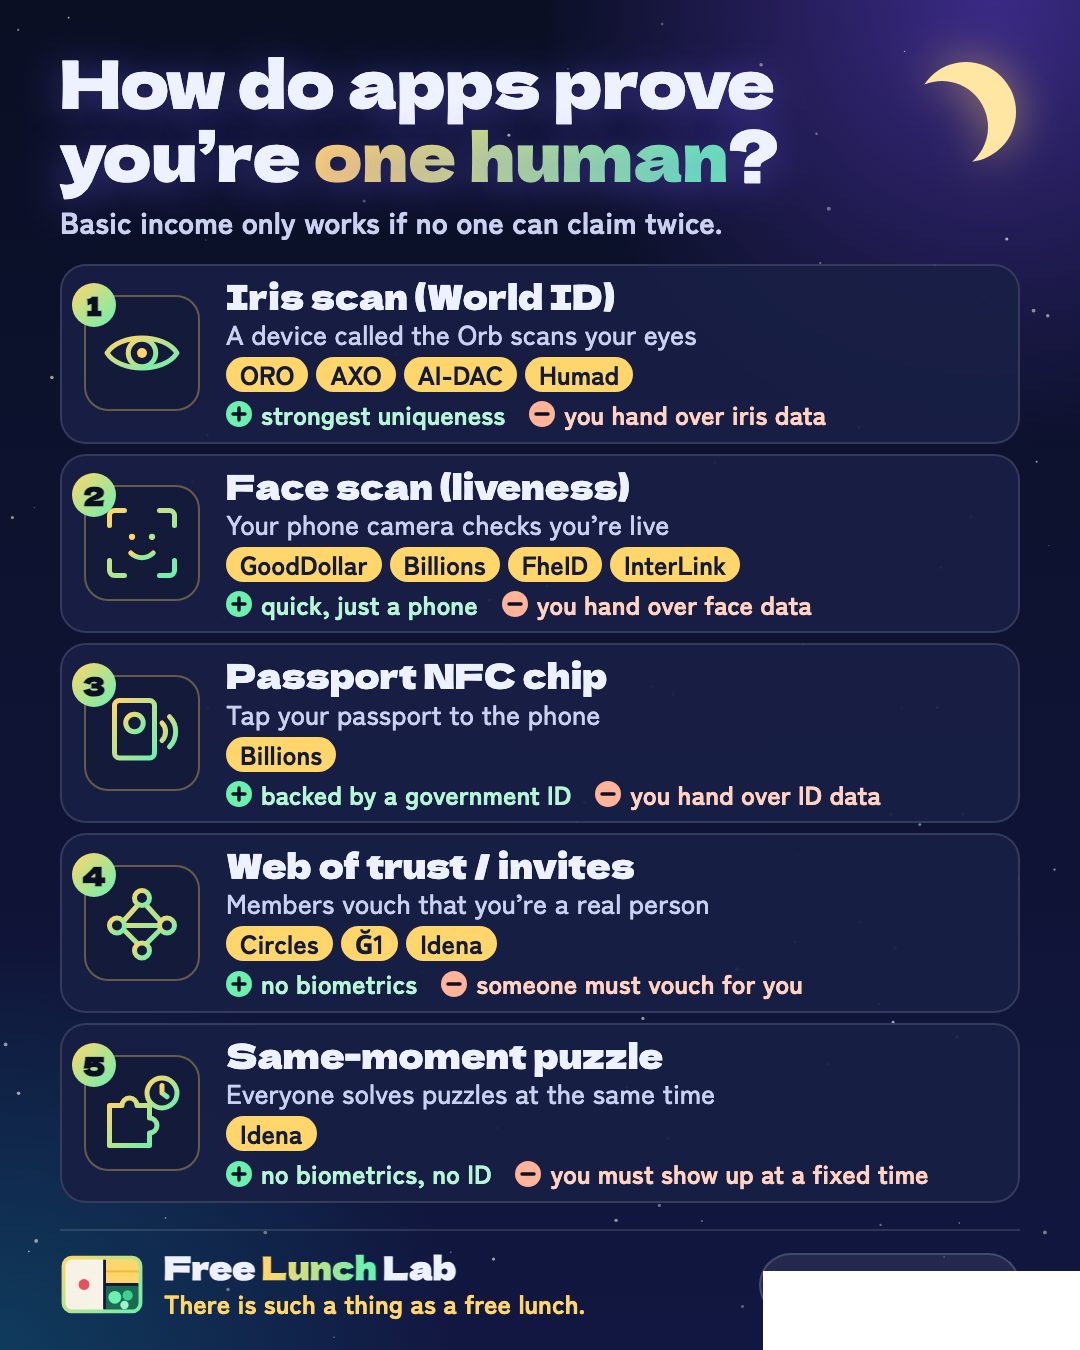
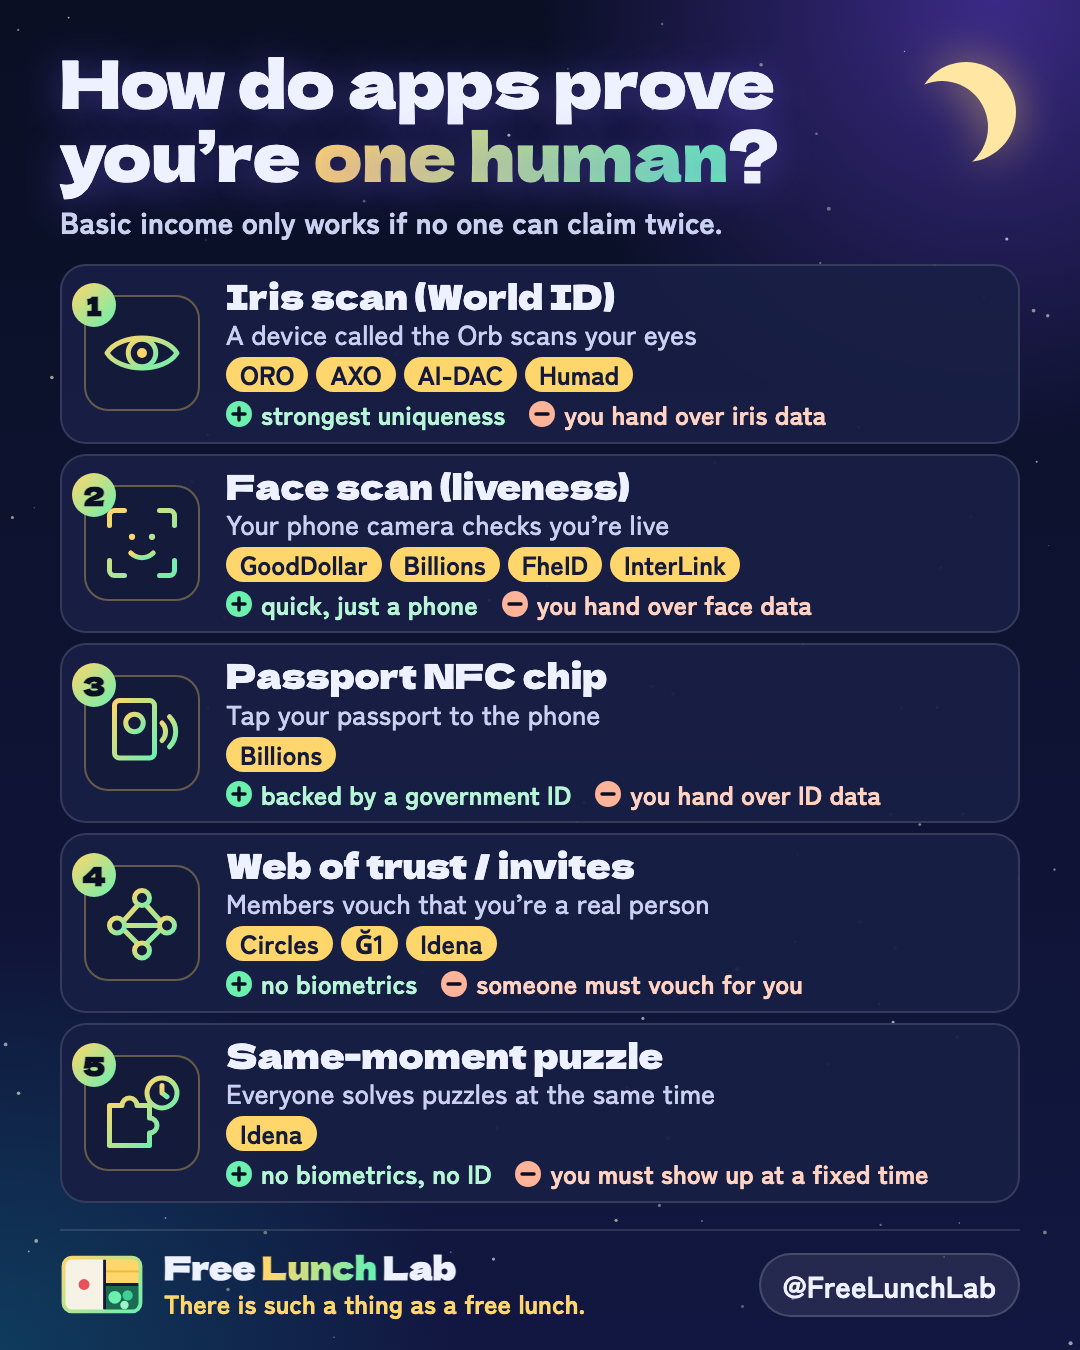
brand/x infographics: capture via DevTools protocol to fix white unpainted tile in verify-5-en
The one-shot chrome --screenshot could capture before the last raster tile
was painted, leaving a white block over the footer pill. Now: fixed
viewport, wait for load + document.fonts.ready + two frames, fail on
overflow or unloaded fonts, capture with an explicit clip. curl also
retries refused connections.

Changed region(s): [[0.7028, 0.9333, 1.0, 1.0]]

diff --git a/brand/x/infographics/render.js b/brand/x/infographics/render.js
@@ -14,7 +14,7 @@ const DIR = __dirname;
 const W = 1080, H = 1350;
 const CHROME = process.env.CHROME || '/Applications/Google Chrome Canary.app/Contents/MacOS/Google Chrome Canary';
 const UA = 'Mozilla/5.0 (Macintosh; Intel Mac OS X 10_15_7) AppleWebKit/537.36 (KHTML, like Gecko) Chrome/124.0 Safari/537.36';
-const curl = (url, enc) => execFileSync('curl', ['-sfL', '--retry', '3', '-A', UA, url], { encoding: enc, maxBuffer: 64 << 20 });
+const curl = (url, enc) => execFileSync('curl', ['-sfL', '--retry', '5', '--retry-delay', '1', '--retry-connrefused', '--retry-all-errors', '-A', UA, url], { encoding: enc, maxBuffer: 64 << 20 });
 const esc = s => String(s).replace(/[&<>"]/g, c => ({ '&': '&amp;', '<': '&lt;', '>': '&gt;', '"': '&quot;' }[c]));
 
 // Same approach as og.js: subset Google Fonts to the exact characters and inline them as data: URIs,
@@ -187,20 +187,72 @@ h1{font-size:${ja ? 62 : 66}px}
   },
 };
 
-function shot(name, html) {
+// Screenshots go through the DevTools protocol, not `chrome --screenshot`: the one-shot CLI capture can fire before
+// every raster tile is painted (it once left a white block over the footer). Here we fix the viewport, wait for
+// load + document.fonts.ready + two animation frames, check that nothing overflows, then capture with an explicit clip.
+const { spawn } = require('child_process');
+async function launch() {
+  const profile = fs.mkdtempSync(path.join(os.tmpdir(), 'ig-chrome-'));
+  const proc = spawn(CHROME, ['--headless=new', '--disable-gpu', '--hide-scrollbars', '--force-device-scale-factor=1',
+    '--remote-debugging-port=0', `--user-data-dir=${profile}`, `--window-size=${W},${H}`, 'about:blank'], { stdio: ['ignore', 'ignore', 'pipe'] });
+  const wsUrl = await new Promise((ok, ng) => {
+    let buf = '';
+    const t = setTimeout(() => ng(new Error('Chrome did not start')), 20000);
+    proc.stderr.on('data', d => { buf += d; const m = buf.match(/DevTools listening on (ws:\/\/\S+)/); if (m) { clearTimeout(t); ok(m[1]); } });
+  });
+  const port = new URL(wsUrl).port;
+  const page = (await (await fetch(`http://127.0.0.1:${port}/json/list`)).json()).find(t => t.type === 'page');
+  const ws = new WebSocket(page.webSocketDebuggerUrl);
+  await new Promise((ok, ng) => { ws.onopen = ok; ws.onerror = ng; });
+  let id = 0; const pending = new Map(), waiters = [];
+  ws.onmessage = ev => {
+    const m = JSON.parse(ev.data);
+    if (m.id && pending.has(m.id)) { const [ok, ng] = pending.get(m.id); pending.delete(m.id); m.error ? ng(new Error(m.error.message)) : ok(m.result); }
+    else if (m.method) for (const w of waiters.splice(0)) w.method === m.method ? w.ok(m.params) : waiters.push(w);
+  };
+  const send = (method, params = {}) => new Promise((ok, ng) => { pending.set(++id, [ok, ng]); ws.send(JSON.stringify({ id, method, params })); });
+  const once = method => new Promise(ok => waiters.push({ method, ok }));
+  const close = async () => {
+    ws.close();
+    await new Promise(ok => { proc.once('exit', ok); proc.kill(); });
+    fs.rmSync(profile, { recursive: true, force: true, maxRetries: 5, retryDelay: 200 });
+  };
+  return { send, once, close };
+}
+
+async function shot(cdp, name, html) {
   const tmp = fs.mkdtempSync(path.join(os.tmpdir(), 'ig-'));
   const f = path.join(tmp, `${name}.html`);
   fs.writeFileSync(f, html);
   if (process.env.KEEP_HTML) fs.writeFileSync(path.join(DIR, `${name}.html`), html);
   const out = path.join(DIR, `${name}.png`);
-  execFileSync(CHROME, ['--headless=new', '--disable-gpu', '--hide-scrollbars', '--virtual-time-budget=10000', '--force-device-scale-factor=1',
-    `--window-size=${W},${H}`, `--screenshot=${out}`, `file://${f}`], { stdio: 'ignore' });
+  await cdp.send('Emulation.setDeviceMetricsOverride', { width: W, height: H, deviceScaleFactor: 1, mobile: false });
+  const loaded = cdp.once('Page.loadEventFired');
+  await cdp.send('Page.navigate', { url: `file://${f}` });
+  await loaded;
+  const { result } = await cdp.send('Runtime.evaluate', {
+    awaitPromise: true, returnByValue: true,
+    expression: `document.fonts.ready.then(() => new Promise(r => requestAnimationFrame(() => requestAnimationFrame(() => {
+      const over = [...document.querySelectorAll('.page *')].filter(e => { const b = e.getBoundingClientRect(); return b.width && (b.right > ${W} + .5 || b.bottom > ${H} + .5); }).map(e => e.className || e.tagName);
+      r({ fonts: [...document.fonts].filter(x => x.status !== 'loaded' && x.status !== 'unloaded').length, over, w: innerWidth, h: innerHeight });
+    }))))`,
+  });
+  const v = result.value;
+  if (v.w !== W || v.h !== H) throw new Error(`${name}: viewport ${v.w}x${v.h}, expected ${W}x${H}`);
+  if (v.fonts) throw new Error(`${name}: ${v.fonts} font(s) failed to load`);
+  if (v.over.length) throw new Error(`${name}: overflows the ${W}x${H} frame: ${[...new Set(v.over)].join(', ')}`);
+  const { data } = await cdp.send('Page.captureScreenshot', { format: 'png', fromSurface: true, captureBeyondViewport: false, clip: { x: 0, y: 0, width: W, height: H, scale: 1 } });
+  fs.writeFileSync(out, Buffer.from(data, 'base64'));
   fs.rmSync(tmp, { recursive: true, force: true });
   console.log(out);
 }
 
-const names = process.argv.slice(2).length ? process.argv.slice(2) : Object.keys(GRAPHICS);
-for (const name of names) {
-  if (!GRAPHICS[name]) throw new Error(`unknown infographic: ${name}`);
-  for (const lang of ['ja', 'en']) shot(`${name}-${lang}`, frame(lang, GRAPHICS[name](lang)));
-}
+(async () => {
+  const names = process.argv.slice(2).length ? process.argv.slice(2) : Object.keys(GRAPHICS);
+  for (const name of names) if (!GRAPHICS[name]) throw new Error(`unknown infographic: ${name}`);
+  const cdp = await launch();
+  try {
+    await cdp.send('Page.enable');
+    for (const name of names) for (const lang of ['ja', 'en']) await shot(cdp, `${name}-${lang}`, frame(lang, GRAPHICS[name](lang)));
+  } finally { await cdp.close(); }
+})().catch(e => { console.error(e); process.exit(1); });
